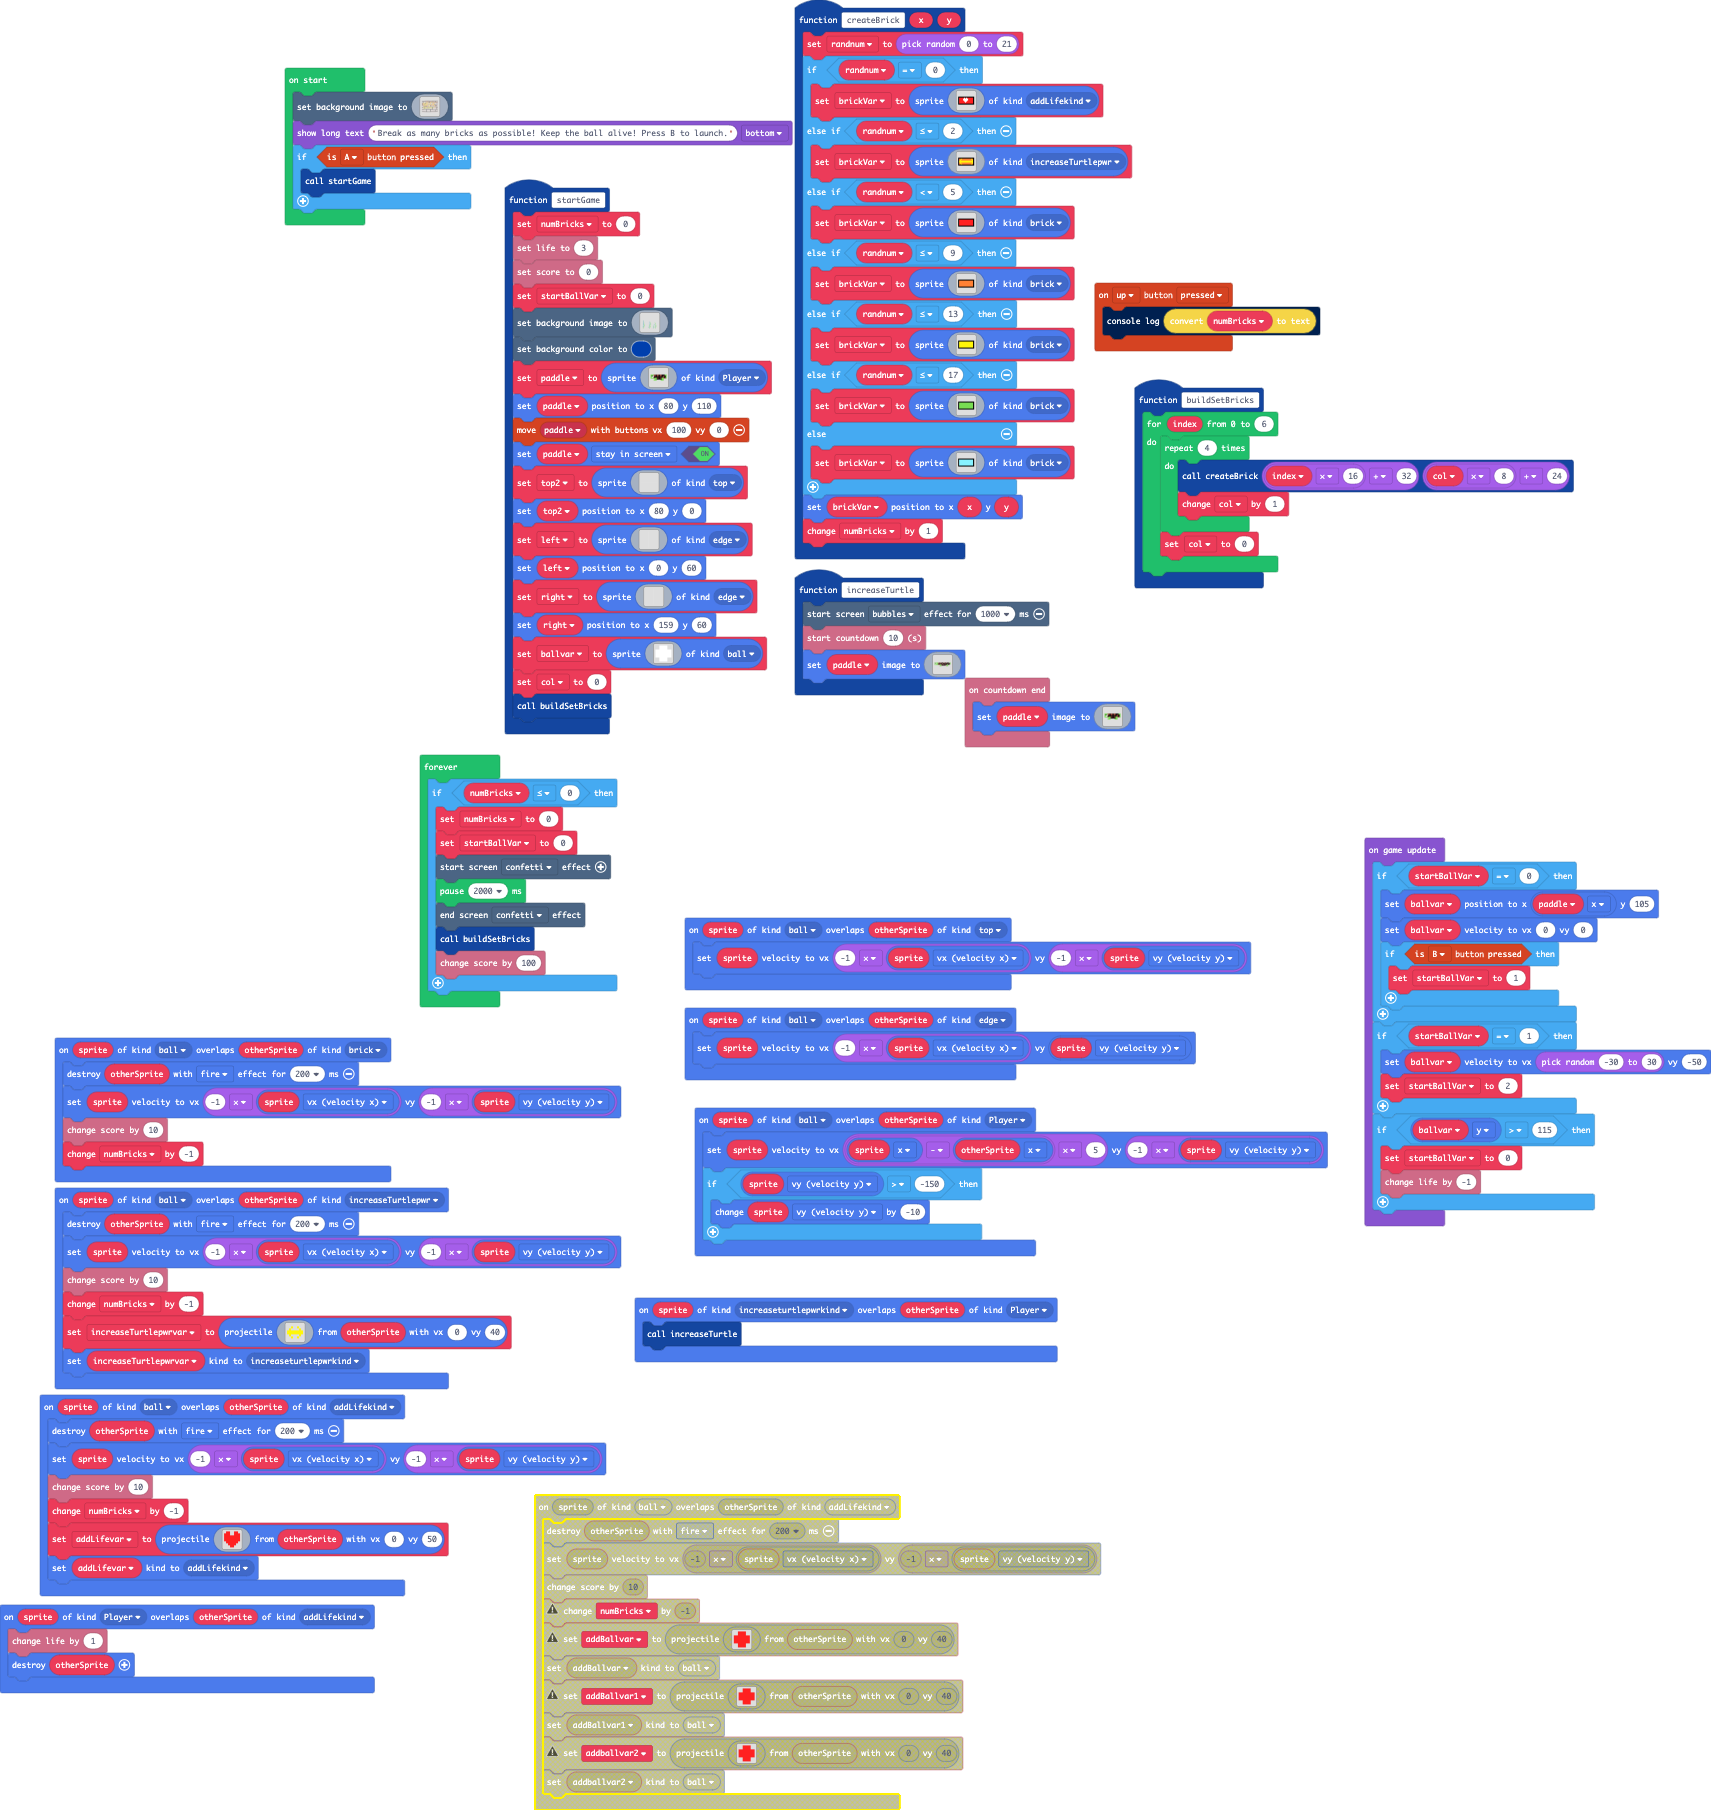
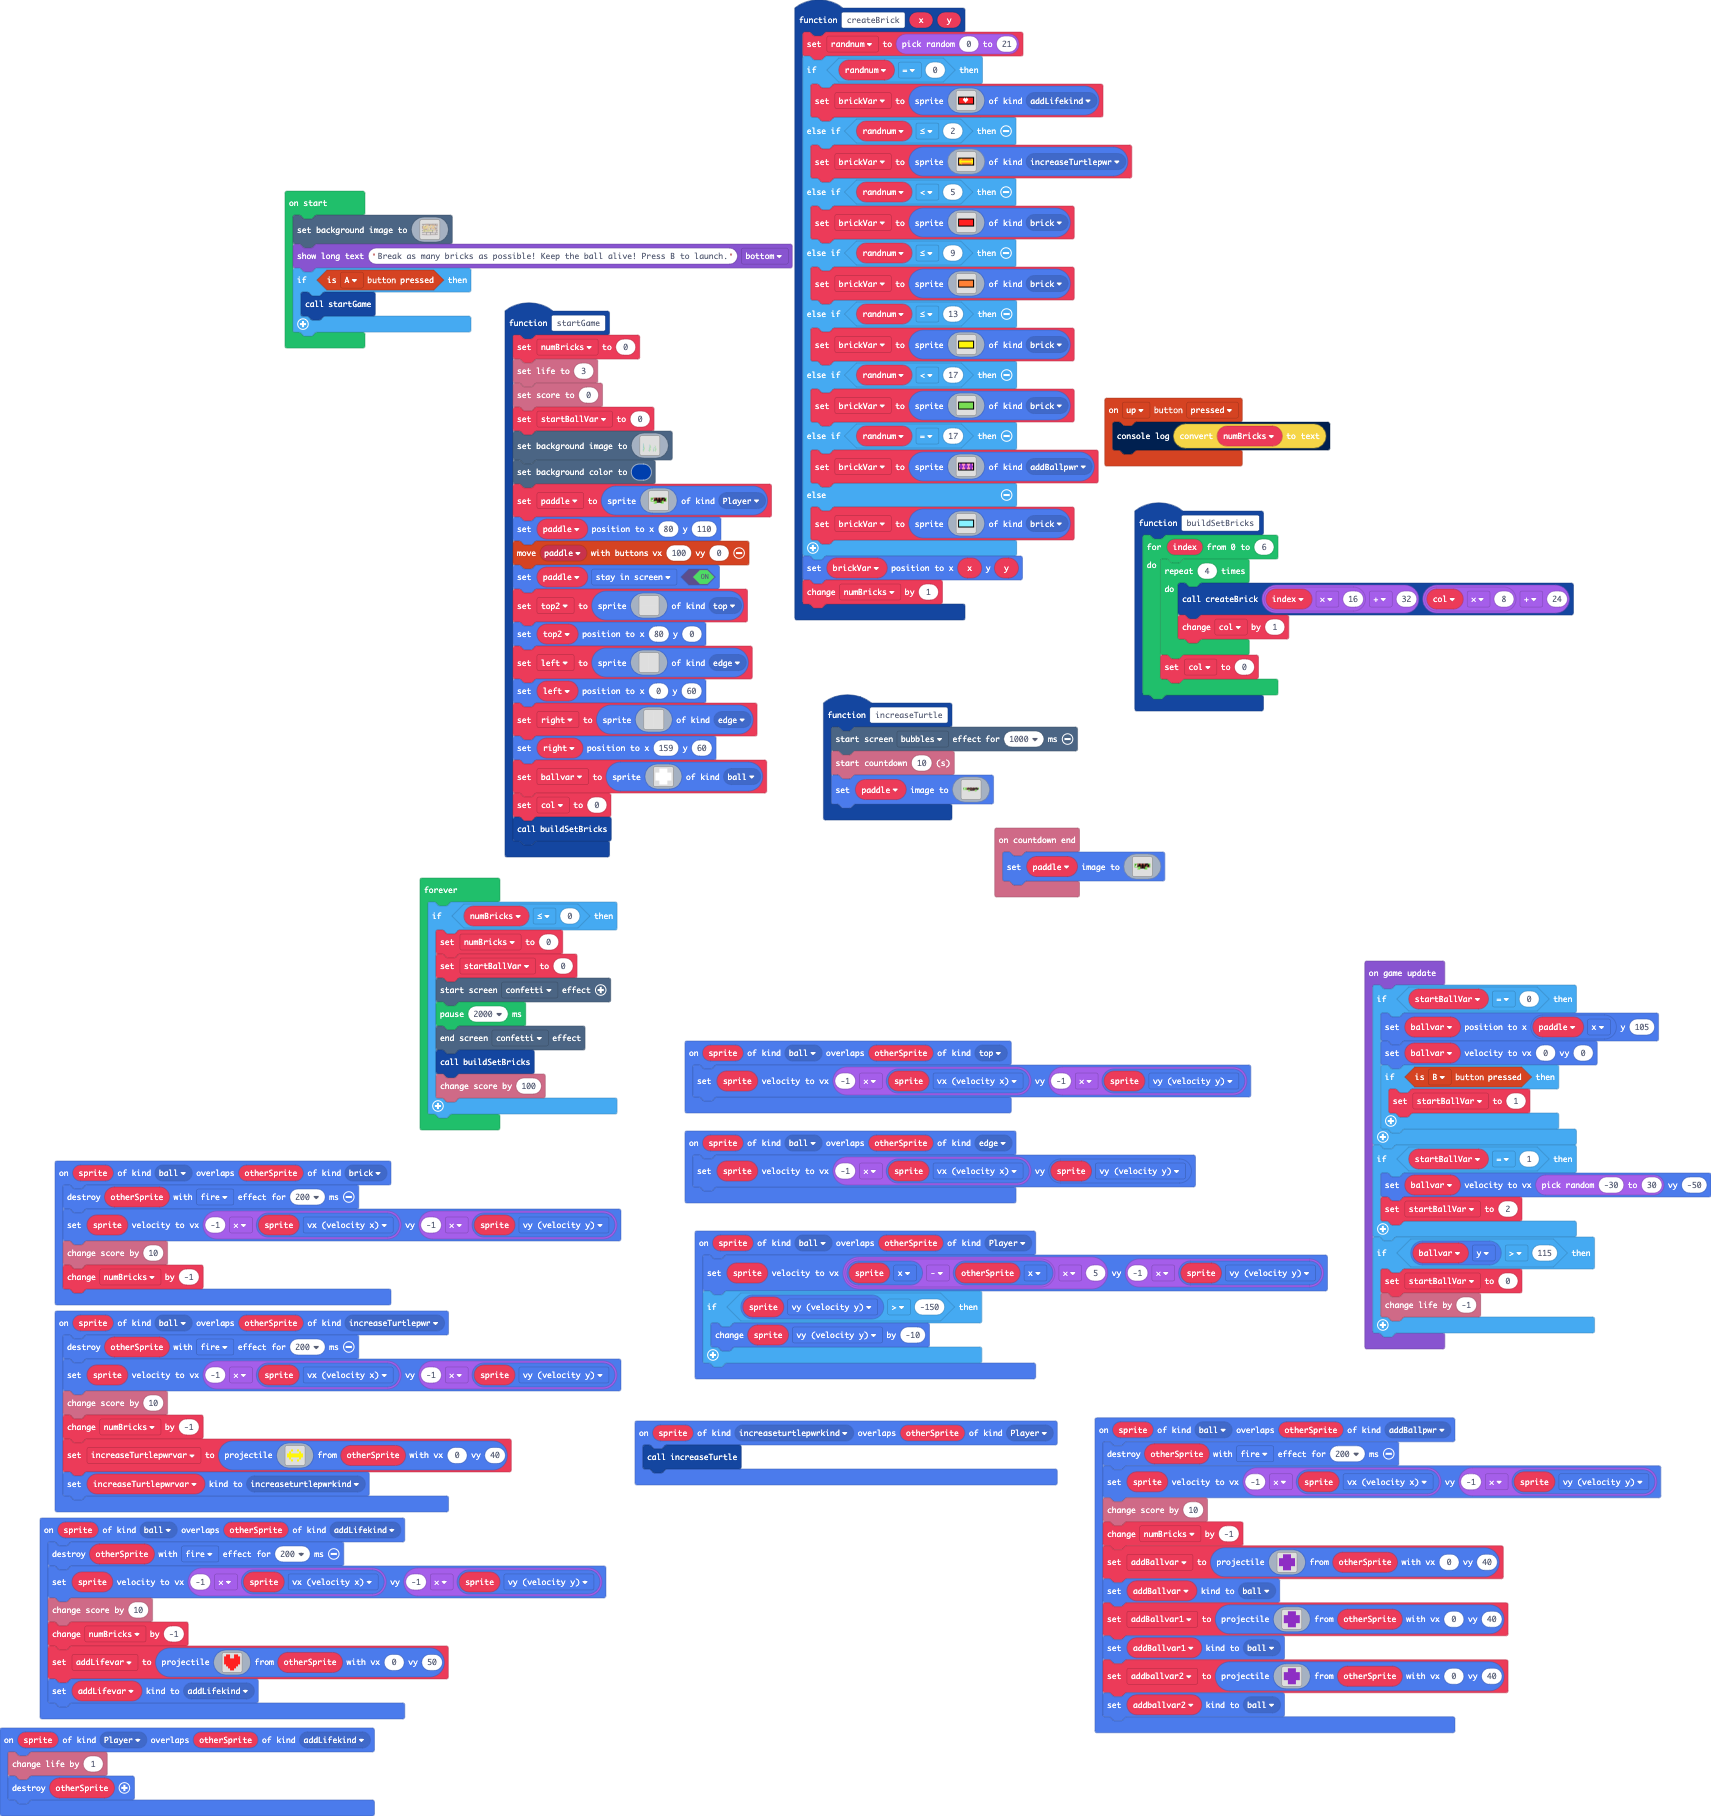
Update main.blocks, main.ts

diff --git a/main.ts b/main.ts
@@ -486,6 +486,33 @@ sprites.onOverlap(SpriteKind.ball, SpriteKind.addLifekind, function (sprite, oth
 `, otherSprite, 0, 50)
     addLifevar.setKind(SpriteKind.addLifekind)
 })
+sprites.onOverlap(SpriteKind.ball, SpriteKind.addBallpwr, function (sprite, otherSprite) {
+    otherSprite.destroy(effects.fire, 200)
+    sprite.setVelocity(-1 * sprite.vx, -1 * sprite.vy)
+    info.changeScoreBy(10)
+    numBricks += -1
+    addBallvar = sprites.createProjectileFromSprite(img`
+. a a . 
+a a a a 
+a a a a 
+. a a . 
+`, otherSprite, 0, 40)
+    addBallvar.setKind(SpriteKind.ball)
+    addBallvar1 = sprites.createProjectileFromSprite(img`
+. a a . 
+a a a a 
+a a a a 
+. a a . 
+`, otherSprite, 0, 40)
+    addBallvar1.setKind(SpriteKind.ball)
+    addballvar2 = sprites.createProjectileFromSprite(img`
+. a a . 
+a a a a 
+a a a a 
+. a a . 
+`, otherSprite, 0, 40)
+    addballvar2.setKind(SpriteKind.ball)
+})
 info.onCountdownEnd(function () {
     paddle.setImage(img`
 7 7 7 e e f e e f e e f f f 7 7 
@@ -571,7 +598,7 @@ f 5 5 5 5 5 5 5 5 5 5 5 5 5 5 f
 f 5 5 5 5 5 5 5 5 5 5 5 5 5 5 f 
 f f f f f f f f f f f f f f f f 
 `, SpriteKind.brick)
-    } else if (randnum <= 17) {
+    } else if (randnum < 17) {
         brickVar = sprites.create(img`
 f f f f f f f f f f f f f f f f 
 f 7 7 7 7 7 7 7 7 7 7 7 7 7 7 f 
@@ -582,6 +609,17 @@ f 7 7 7 7 7 7 7 7 7 7 7 7 7 7 f
 f 7 7 7 7 7 7 7 7 7 7 7 7 7 7 f 
 f f f f f f f f f f f f f f f f 
 `, SpriteKind.brick)
+    } else if (randnum == 17) {
+        brickVar = sprites.create(img`
+f f f f f f f f f f f f f f f f 
+f 3 a a 3 3 3 a a 3 3 3 a a 3 f 
+f 3 a a 3 3 3 a a 3 3 3 a a 3 f 
+f a a a a 3 a a a a 3 a a a a f 
+f a a a a 3 a a a a 3 a a a a f 
+f 3 a a 3 3 3 a a 3 3 3 a a 3 f 
+f 3 a a 3 3 3 a a 3 3 3 a a 3 f 
+f f f f f f f f f f f f f f f f 
+`, SpriteKind.addBallpwr)
     } else {
         brickVar = sprites.create(img`
 f f f f f f f f f f f f f f f f 
@@ -605,6 +643,9 @@ sprites.onOverlap(SpriteKind.increaseturtlepwrkind, SpriteKind.Player, function 
 })
 let brickVar: Sprite = null
 let randnum = 0
+let addballvar2: Sprite = null
+let addBallvar1: Sprite = null
+let addBallvar: Sprite = null
 let addLifevar: Sprite = null
 let col = 0
 let ballvar: Sprite = null
